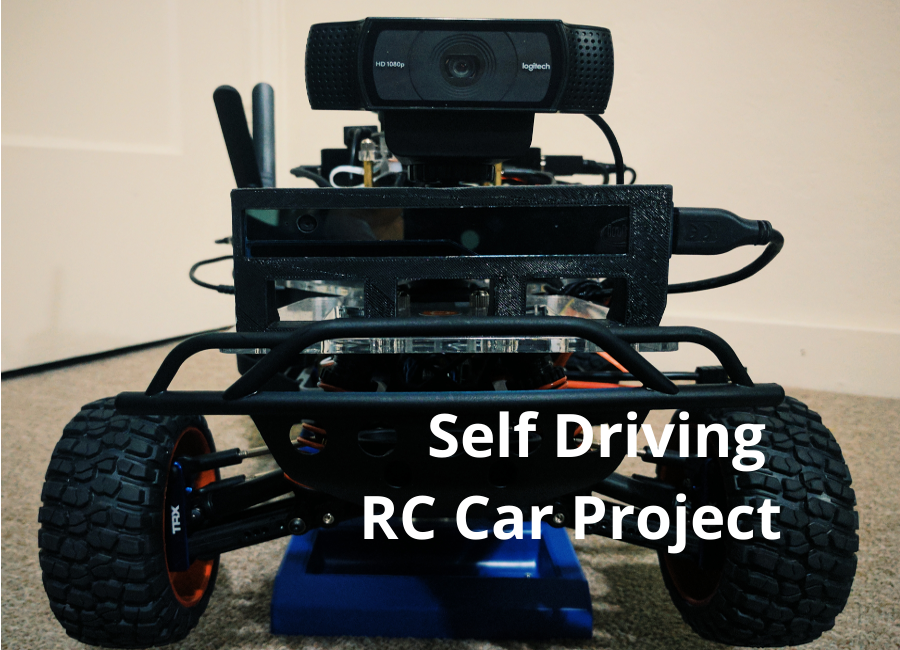
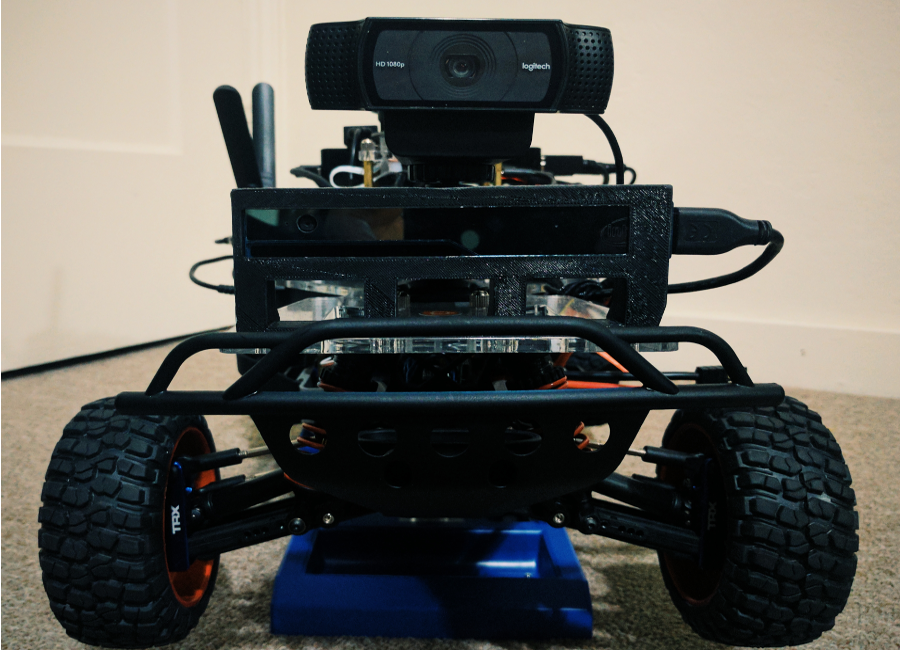
Fixing stuff.

Changed region(s): [[0.4044, 0.7385, 0.8711, 0.8615], [0.4667, 0.6154, 0.8711, 0.7385]]

diff --git a/index.html b/index.html
@@ -10,6 +10,9 @@
     <meta name="author" content="">
 
     <title>Andre Simpelo</title>
+    
+    <!-- Scripts -->
+    <script src="https://cdn.mathjax.org/mathjax/latest/MathJax.js?config=TeX-AMS-MML_HTMLorMML" type="text/javascript"></script>
 
     <!-- Bootstrap Core CSS -->
     <link href="vendor/bootstrap/css/bootstrap.min.css" rel="stylesheet">
@@ -129,13 +132,17 @@
                     <a href="#portfolioModal2" class="portfolio-link" data-toggle="modal">
                         <div class="caption">
                             <div class="caption-content">
-                                <h2 class="project-description-title">Self Driving Car Projects</h2>
+                                <h2 class="project-description-title">Self Driving RC Car Project</h2>
                             </div>
                         </div>
+                            <img src="assets/rc_car/front_car_cartoon.png" class="img-responsive" alt="Cabin">
+<!--
+                        
                         <div id="cf">
                           <img src="assets/rc_car/front_car_real.png" class="bottom img-responsive" alt="Cabin">
                           <img src="assets/rc_car/front_car_cartoon.png" class="top img-responsive" alt="Cabin">
                         </div>
+-->
                     </a>
                 </div>
                 <div class="col-sm-4 portfolio-item">
@@ -224,8 +231,8 @@
                 <div class="row">
                     <div class="col-lg-8 col-lg-offset-2">
                         <div class="modal-body">
-                            <h2 class="project-description-title">Self Driving 1/10 Scale RC Car</h2>
-                            <img src="assets/rc_car/side_car.jpg" class="img-responsive img-centered" alt="">
+                            <h2 class="project-description-title">Self Driving RC Car</h2>
+                            <img src="assets/rc_car/front_car_real.png" class="img-responsive img-centered" alt="">
                             <p class="projects">To do!</p>
                             <button id="btnSubmit" type="button" class="btn btn-default" data-dismiss="modal"><i class="fa fa-times"></i> Close</button>
                         </div>
